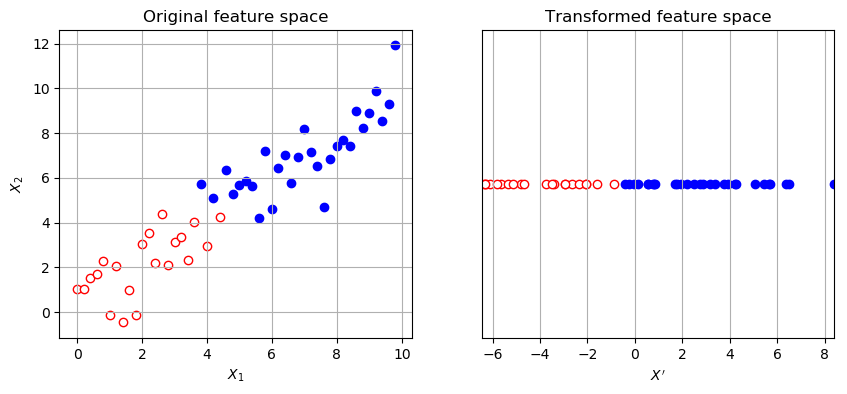
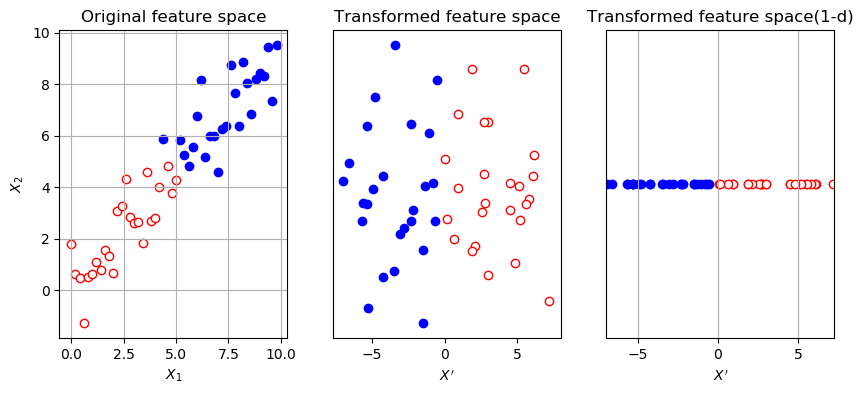
add pca

diff --git a/test_numpy/pca/demo_pca.py b/test_numpy/pca/demo_pca.py
@@ -2,6 +2,9 @@ import os
 
 from matplotlib import pylab
 import numpy as np
+import math
+from numpy import linalg
+
 
 from sklearn import linear_model, decomposition
 
@@ -16,25 +19,143 @@ x1 = np.arange(0, 10, .2)
 # x2在x1的基础上进行扰动
 x2 = x1 + np.random.normal(loc=0, scale=1, size=len(x1))
 
-def my_pca(X):
+def my_pca(X, k_components=2, whiten=False):
     """
     X = U*S*(V^T)
+    sigma = 1/N*(X^T)*X =(1/N)* V*S*(U^T)*U*S*V^T
+          = (1/N)* V*(S*S)*(V^T) = V*(S*S/N)*(V^T)
+    我们只要得到变换矩阵V就行
+    那么新的数据:
+    X_new = X * V = U * S * V^T * V = U * S
+    V:[D,D]
+    X_new=X*V[:,K]: [N,K]
+
     pca需要分析X的协方差的主成份
     :param X: N*D
+    :param k_components:要保留的主成份的个数
     :return:
     """
+    n_samples = X.shape[0]
+    X_normal = X - np.mean(X, axis=0)
+    # 注意:SVD中,U, V并非相同维数
+    # X_normal: N*D, U:N*D, S:D*D, VT:D*D
+    U,S,VT = linalg.svd(X_normal)
+    if whiten:
+        """
+         下面的变换,十分巧妙
+         X_new = X*V/sqrt(S*S/n_samples) 
+         = X * V/S * sqrt(n_samples))
+         = (U*S*V^T)*V/S*sqrt(n_samples)
+         = U*(S/S)*V^T*V*sqrt(n_samples)
+         = U * sqrt(n_samples)
+        """
+        X_new = U[:,:k_components]*math.sqrt(n_samples-1)
+    else:
+        # X_new = X * V = U * S * V^T * V = U * S
+        X_new = U[:,:k_components]*S[:k_components]
+        # 或者
+        #X_new = X_normal @ VT.T[:, 0:k_components] # 取前k个元素
 
+    print("VT shape:", VT.shape, " S:",S.shape, " X_new:", X_new.shape)
+    return X_new, S[:k_components]**2/(n_samples-1)
 
-def plot_simple_demo_1():
+def plot_simple_demo_my_pca():
     pylab.clf()
-    fig = pylab.figure(num=None, figsize=(10, 4))
-    pylab.subplot(121)
+    fig = pylab.figure(num=None, figsize=(20, 4))
+    pylab.subplot(141)
 
     title = "Original feature space"
     pylab.title(title)
     pylab.xlabel("$X_1$")
     pylab.ylabel("$X_2$")
 
+    np.random.seed(3)
+    x1 = np.arange(0, 10, .2)
+    x2 = x1 + np.random.normal(loc=0, scale=1, size=len(x1))
+
+    # 两者中,有一个>5就是good
+    good = (x1 > 5) | (x2 > 5)
+    bad = ~good
+
+    x1g = x1[good]
+    x2g = x2[good]
+    pylab.scatter(x1g, x2g, edgecolor="blue", facecolor="blue")
+
+    x1b = x1[bad]
+    x2b = x2[bad]
+    pylab.scatter(x1b, x2b, edgecolor="red", facecolor="white")
+
+    pylab.grid(True)
+
+    pylab.subplot(142)
+
+    X = np.c_[(x1, x2)] # X:[N, 2]
+
+    Xtrans, eigen_values = my_pca(X, k_components=2,whiten=False)
+    Xtrans_whiten, _ = my_pca(np.copy(X), k_components=2, whiten=True)
+
+    Xg = Xtrans[good]
+    Xb = Xtrans[bad]
+
+    print("======手工pca==========")
+    print("原始特征值 eigen_values:", eigen_values)
+    print("手工Xg:", Xg)
+    print("手工Xg(whiten):", Xtrans_whiten[good])
+
+    pylab.scatter(Xg[:, 0], Xg[:,1], edgecolor="blue", facecolor="blue")
+    pylab.scatter(Xb[:, 0], Xb[:,1], edgecolor="red", facecolor="white")
+        #Xb[:, 0], np.zeros(len(Xb)), edgecolor="red", facecolor="white")
+    title = "Transformed feature space"
+    pylab.title(title)
+    pylab.xlabel("$X'$")
+    fig.axes[1].get_yaxis().set_visible(True)
+    fig.axes[1].set_xlim(-6,6)
+    fig.axes[1].set_ylim(-6,6)
+    #fig.axes.set_ylim(-6,6)
+
+    # 白化
+    Xg = Xtrans_whiten[good]
+    Xb = Xtrans_whiten[bad]
+    title = "Transformed feature space(whiten)"
+    pylab.subplot(143)
+    pylab.scatter( Xg[:, 0], Xg[:, 1], edgecolor="blue", facecolor="blue")
+    pylab.scatter( Xb[:, 0], Xb[:, 1], edgecolor="red", facecolor="white")
+
+    pylab.title(title)
+    pylab.xlabel("$X'$")
+    fig.axes[2].get_yaxis().set_visible(True)
+    fig.axes[2].set_xlim(-6,6)
+    fig.axes[2].set_ylim(-6,6)
+
+    title = "Transformed feature space(1-d)"
+    pylab.subplot(144)
+    pylab.scatter(Xg[:, 0], np.zeros(len(Xg)), edgecolor="blue", facecolor="blue")
+    pylab.scatter(Xb[:, 0], np.zeros(len(Xb)), edgecolor="red", facecolor="white")
+
+    pylab.title(title)
+    pylab.xlabel("$X'$")
+    fig.axes[3].get_yaxis().set_visible(False)
+    fig.axes[3].set_xlim(-6,6)
+    fig.axes[3].set_ylim(-6,6)
+
+
+    pylab.grid(True)
+    pylab.autoscale(tight=True)
+    filename = "my_pca_demo.png"
+    pylab.savefig(os.path.join(CHART_DIR, filename), bbox_inches="tight")
+    # 从图中可以看出我们的pca与 decomposition.PCA的结果完全 一样
+
+def plot_simple_demo_1():
+    pylab.clf()
+    fig = pylab.figure(num=None, figsize=(10, 4))
+    pylab.subplot(131)
+
+    title = "Original feature space"
+    pylab.title(title)
+    pylab.xlabel("$X_1$")
+    pylab.ylabel("$X_2$")
+
+    np.random.seed(3)
     x1 = np.arange(0, 10, .2)
     x2 = x1 + np.random.normal(loc=0, scale=1, size=len(x1))
 
@@ -51,27 +172,43 @@ def plot_simple_demo_1():
 
     pylab.grid(True)
 
-    pylab.subplot(122)
+    pylab.subplot(132)
 
     X = np.c_[(x1, x2)] # X:[N, 2]
 
-    pca = decomposition.PCA(n_components=1)
+    pca = decomposition.PCA(n_components=2)
     Xtrans = pca.fit_transform(X) # Xtrans:[N, 1], 只有一个主成份
+    #Xtrans *=-1
 
     Xg = Xtrans[good]
     Xb = Xtrans[bad]
-
-    pylab.scatter(
-        Xg[:, 0], np.zeros(len(Xg)), edgecolor="blue", facecolor="blue")
-    pylab.scatter(
-        Xb[:, 0], np.zeros(len(Xb)), edgecolor="red", facecolor="white")
+    """
+    pylab.scatter( Xg[:, 0], np.zeros(len(Xg)), edgecolor="blue", facecolor="blue")
+    pylab.scatter( Xb[:, 0], np.zeros(len(Xb)), edgecolor="red", facecolor="white")
+    """
+    pylab.scatter( Xg[:, 0], Xg[:,1], edgecolor="blue", facecolor="blue")
+    pylab.scatter( Xb[:, 0], Xb[:,1], edgecolor="red", facecolor="white")
     title = "Transformed feature space"
     pylab.title(title)
     pylab.xlabel("$X'$")
     fig.axes[1].get_yaxis().set_visible(False)
 
-    print(pca.explained_variance_ratio_)
+    title = "Transformed feature space(1-d)"
+    pylab.subplot(133)
+    pylab.scatter( Xg[:, 0], np.zeros(len(Xg)), edgecolor="blue", facecolor="blue")
+    pylab.scatter( Xb[:, 0], np.zeros(len(Xb)), edgecolor="red", facecolor="white")
 
+    pylab.title(title)
+    pylab.xlabel("$X'$")
+    fig.axes[2].get_yaxis().set_visible(False)
+
+    print("======系统pca 数据1==========")
+    print("特征值:",pca.explained_variance_)
+    print("特征重要度比率:",pca.explained_variance_ratio_)
+    # 可以看出, 手工pca与系统pca数据有个符号相反,并不影响分解,
+    # 比如 X=U*S*(V^T) = (-U) S*(-V^T)
+    # 对于二维数据, 其物理意义对应是按照顺时针旋转还是逆时针旋转,并不影响保持最大分量这一物理意义
+    print("系统Xg:", Xg)
     pylab.grid(True)
 
     pylab.autoscale(tight=True)
@@ -89,6 +226,7 @@ def plot_simple_demo_2():
     pylab.xlabel("$X_1$")
     pylab.ylabel("$X_2$")
 
+    np.random.seed(3)
     x1 = np.arange(0, 10, .2)
     x2 = x1 + np.random.normal(loc=0, scale=1, size=len(x1))
 
@@ -124,7 +262,8 @@ def plot_simple_demo_2():
     pylab.xlabel("$X'$")
     fig.axes[1].get_yaxis().set_visible(False)
 
-    print(pca.explained_variance_ratio_)
+    print("======系统pca 数据2==========")
+    print("特征重要度:",pca.explained_variance_ratio_)
 
     pylab.grid(True)
 
@@ -186,6 +325,7 @@ def plot_simple_demo_lda():
     pylab.savefig(os.path.join(CHART_DIR, filename), bbox_inches="tight")
 
 if __name__ == '__main__':
+    plot_simple_demo_my_pca()
     plot_simple_demo_1()
     plot_simple_demo_2()
     plot_simple_demo_lda()

diff --git a/test_numpy/pca/kpca.py b/test_numpy/pca/kpca.py
@@ -69,8 +69,8 @@ def compare_KPCA():
         plt.subplot(1, 4, k)
         k += 1
         kpca = decomposition.KernelPCA(n_components=2, kernel=kernel)
-        data2 = kpca.fit_transform(data)
-        plt.scatter(data2[:, 0], data2[:, 1], c=[color[i] for i in target])
+        data_reduced = kpca.fit_transform(data)
+        plt.scatter(data_reduced[:, 0], data_reduced[:, 1], c=[color[i] for i in target])
         plt.title(kernel)
     plt.suptitle('The Comparasion Between KPCA')
     plt.show()
